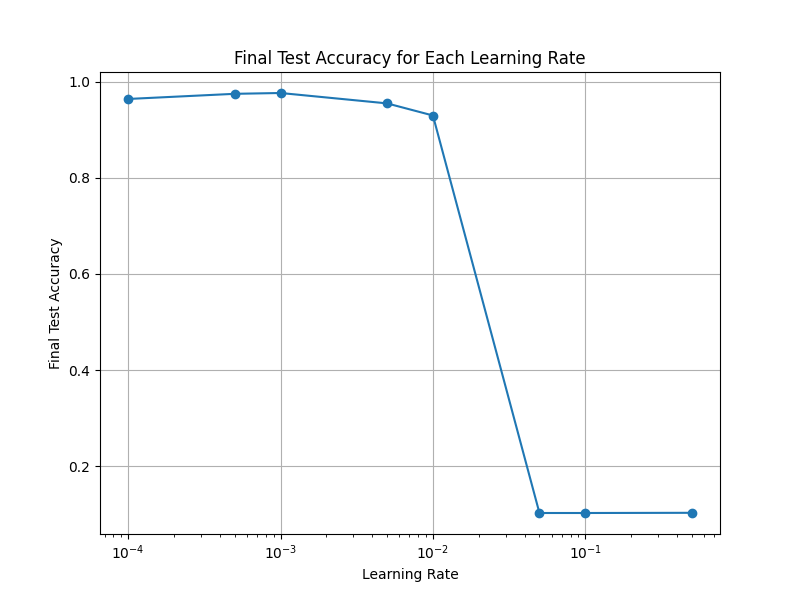
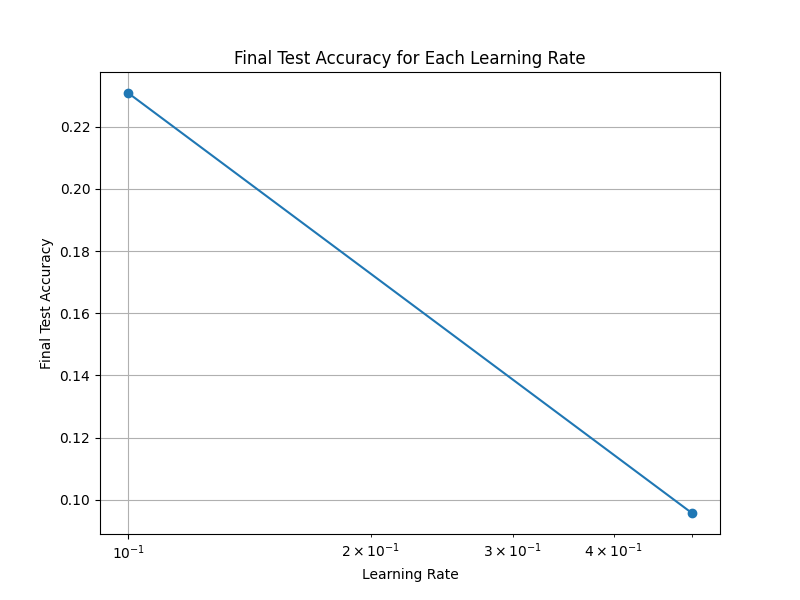
added param magnitude graphs

diff --git a/ablation_studies/ablate.py b/ablation_studies/ablate.py
@@ -1,7 +1,8 @@
 from pc_model import PCModel
 from config import device
 from pc_trainer import PCTrainer
-
+import torch.nn as nn
+import torch.optim as optim
 import numpy as np 
 from data_loader import load_data
 import torch 
@@ -21,12 +22,25 @@ loss_fn = lambda output, _target: 0.5 * (output - _target).pow(2).sum() # this l
 # Trainer parameters 
 T = 20 
 optimizer_x_fn = optim.SGD
-x_lr = 0.01
+x_lr = 0.1
+# Test different learning rates
+# x_lrs = [0.5, 0.1, 0.05, 0.01, 0.005, 0.001, 0.0005, 0.0001]
 optimizer_p_fn = optim.Adam  
-p_lr = 0.001
+# p_lr = 0.001
+p_lrs = [0.5, 0.1, 0.05, 0.01, 0.005, 0.001, 0.0005, 0.0001]
 
 # Training parameters
-epochs = 10 
+epochs = {
+    0.5: 2,
+    0.1: 2,
+    0.05: 2,
+    0.01: 2,
+    0.005: 2,
+    0.001: 2,
+    0.0005: 2,
+    0.0001: 2
+}
+max_epochs = max(epochs.values())
 
 ## Initialize the model and trainer ##
 
@@ -50,13 +64,17 @@ def test(model):
 # Initialize dictionaries to store accuracy and final loss
 accuracy_per_lr = {}
 final_losses = []
+param_magnitudes = {}
 for p_lr in p_lrs: 
-    model = PCModel(input_size, hidden_size, output_size, activation_fn).model
+    wrapper = PCModel(input_size, hidden_size, output_size, activation_fn)
+    model = wrapper.model
     trainer = PCTrainer(T, model, optimizer_x_fn, x_lr, optimizer_p_fn, p_lr).trainer
     ## Train the model ##
     eps = epochs[p_lr]
     test_acc = np.zeros(eps + 1)
     test_acc[0] = test(model)
+    param_mags = np.zeros(eps + 1)
+    param_mags[0] = wrapper.get_parameter_magnitudes()
     for epoch in range(eps):
         # Initialize the tqdm progress bar
         print(train_loader)
@@ -71,8 +89,10 @@ for p_lr in p_lrs:
                     loss_fn_kwargs={'_target': label}
                 )
         test_acc[epoch + 1] = test(model)
+        param_mags[epoch + 1] = wrapper.get_parameter_magnitudes()
         pbar.set_description(f'Epoch {epoch + 1} - Test accuracy: {test_acc[epoch + 1]:.3f}')
     accuracy_per_lr[p_lr] = test_acc
+    param_magnitudes[p_lr] = param_mags
     final_losses.append((p_lr, accuracy_per_lr[p_lr][-1]))
     
 
@@ -100,4 +120,18 @@ plt.xscale('log')
 plt.title('Final Test Accuracy for Each Learning Rate')
 plt.grid(True)
 plt.savefig("final_test_acc_p_lr.png")
+plt.show()
+
+# Plot (3): Param magnitudes across epochs for each learning rate
+plt.figure(figsize=(12, 8))
+for p_lr, param_mag in param_magnitudes.items():
+    # Pad the param_mag to max_epochs
+    param_mag = np.append(param_mag, [param_mag[-1]] * (max_epochs + 1 - len(param_mag)))
+    plt.plot(range(max_epochs + 1), param_mag, label=f'LR={p_lr}')
+plt.xlabel('Epoch')
+plt.ylabel('Parameter Magnitudes')
+plt.legend()
+plt.title('Parameter Magnitudes Across Epochs for Different Learning Rates')
+plt.grid(True)
+plt.savefig("param_magnitudes_epochs_p_lr.png")
 plt.show()

diff --git a/ablation_studies/pc_model.py b/ablation_studies/pc_model.py
@@ -17,3 +17,9 @@ class PCModel:
         )
         self.model.train()
         self.model.to(device)
+        
+    def get_parameter_magnitudes(self):
+        magnitudes = {}
+        for name, param in self.model.named_parameters():
+            magnitudes[name] = param.norm().item()
+        return sum(magnitudes.values())
